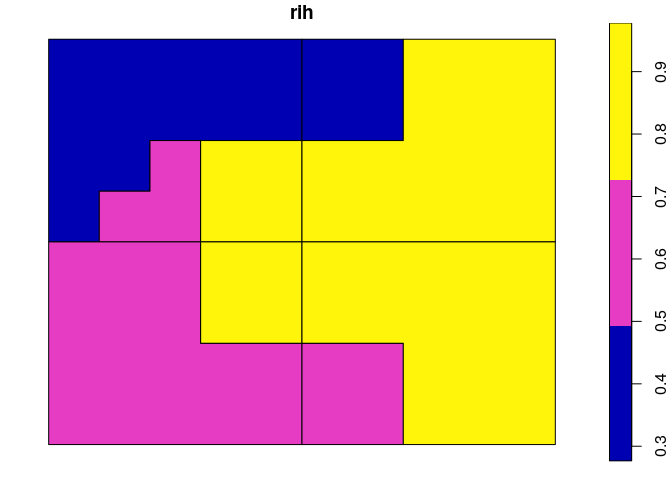
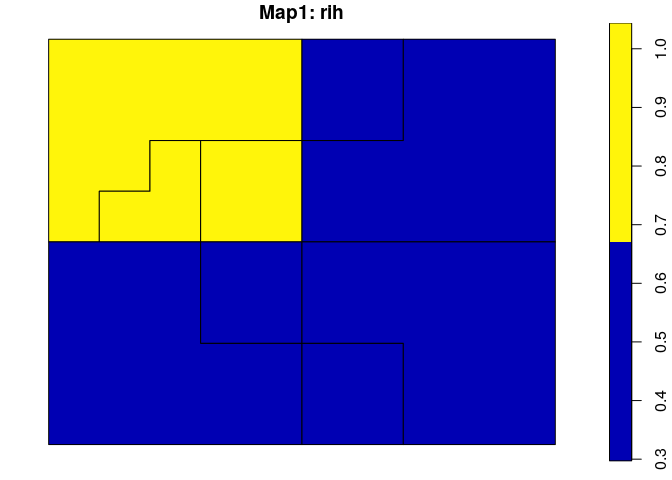
nicer figures readme

diff --git a/README.md b/README.md
@@ -38,7 +38,7 @@ data("regions2")
 
 The first map, `regions1` consists of four regions of the same shape and size, while the second one, `regions2` has three irregular regions.
 
-<img src="man/figures/README-unnamed-chunk-2-1.png" width="100%" /><img src="man/figures/README-unnamed-chunk-2-2.png" width="100%" />
+<img src="man/figures/README-unnamed-chunk-2-1.png" width="50%" /><img src="man/figures/README-unnamed-chunk-2-2.png" width="50%" />
 
 The `sabre_calc()` function allows for calculation of a degree of spatial association between regionalizations or categorical maps using the information-theoretical V-measure. It requires, at least, four arguments:
 
@@ -69,16 +69,11 @@ regions_vm
 Both spatial outputs have two columns. The first one contains regions' names/values and the second one (`rih`) describes regions' inhomogeneities.
 
 ``` r
-plot(regions_vm$map1["rih"])
+plot(regions_vm$map1["rih"], main = "Map1: rih")
+plot(regions_vm$map2["rih"], main = "Map2: rih")
 ```
 
-<img src="man/figures/README-unnamed-chunk-5-1.png" width="100%" />
-
-``` r
-plot(regions_vm$map2["rih"])
-```
-
-<img src="man/figures/README-unnamed-chunk-6-1.png" width="100%" />
+<img src="man/figures/README-unnamed-chunk-6-1.png" width="50%" /><img src="man/figures/README-unnamed-chunk-6-2.png" width="50%" />
 
 See the package vignette for more examples.
 
